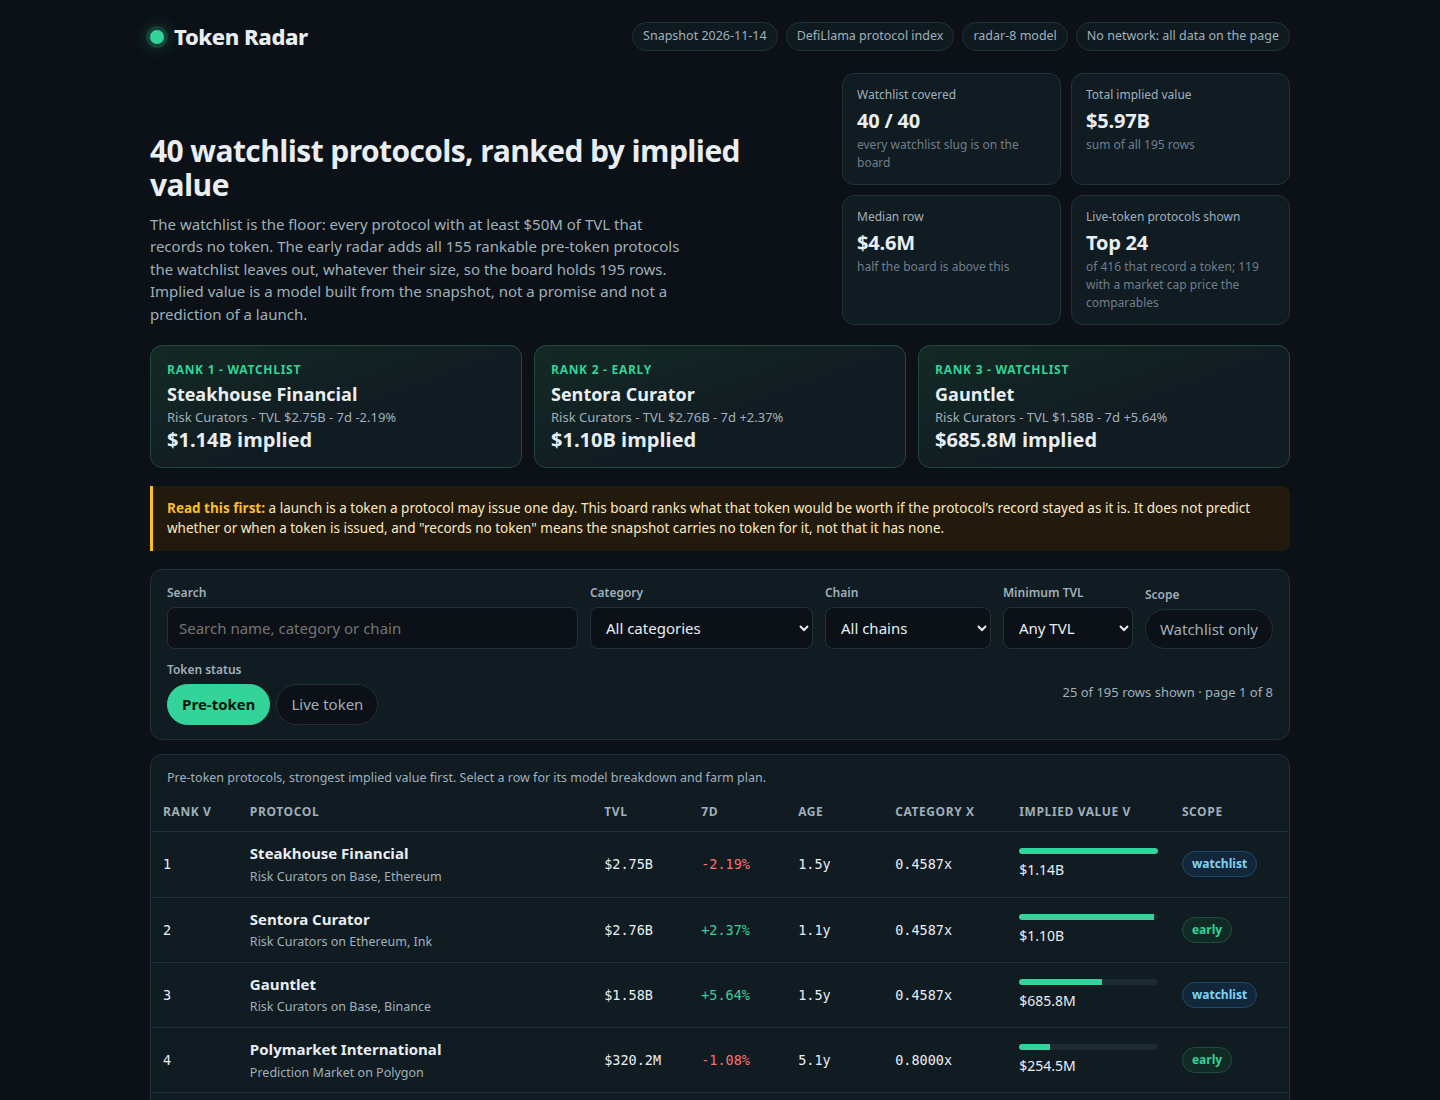
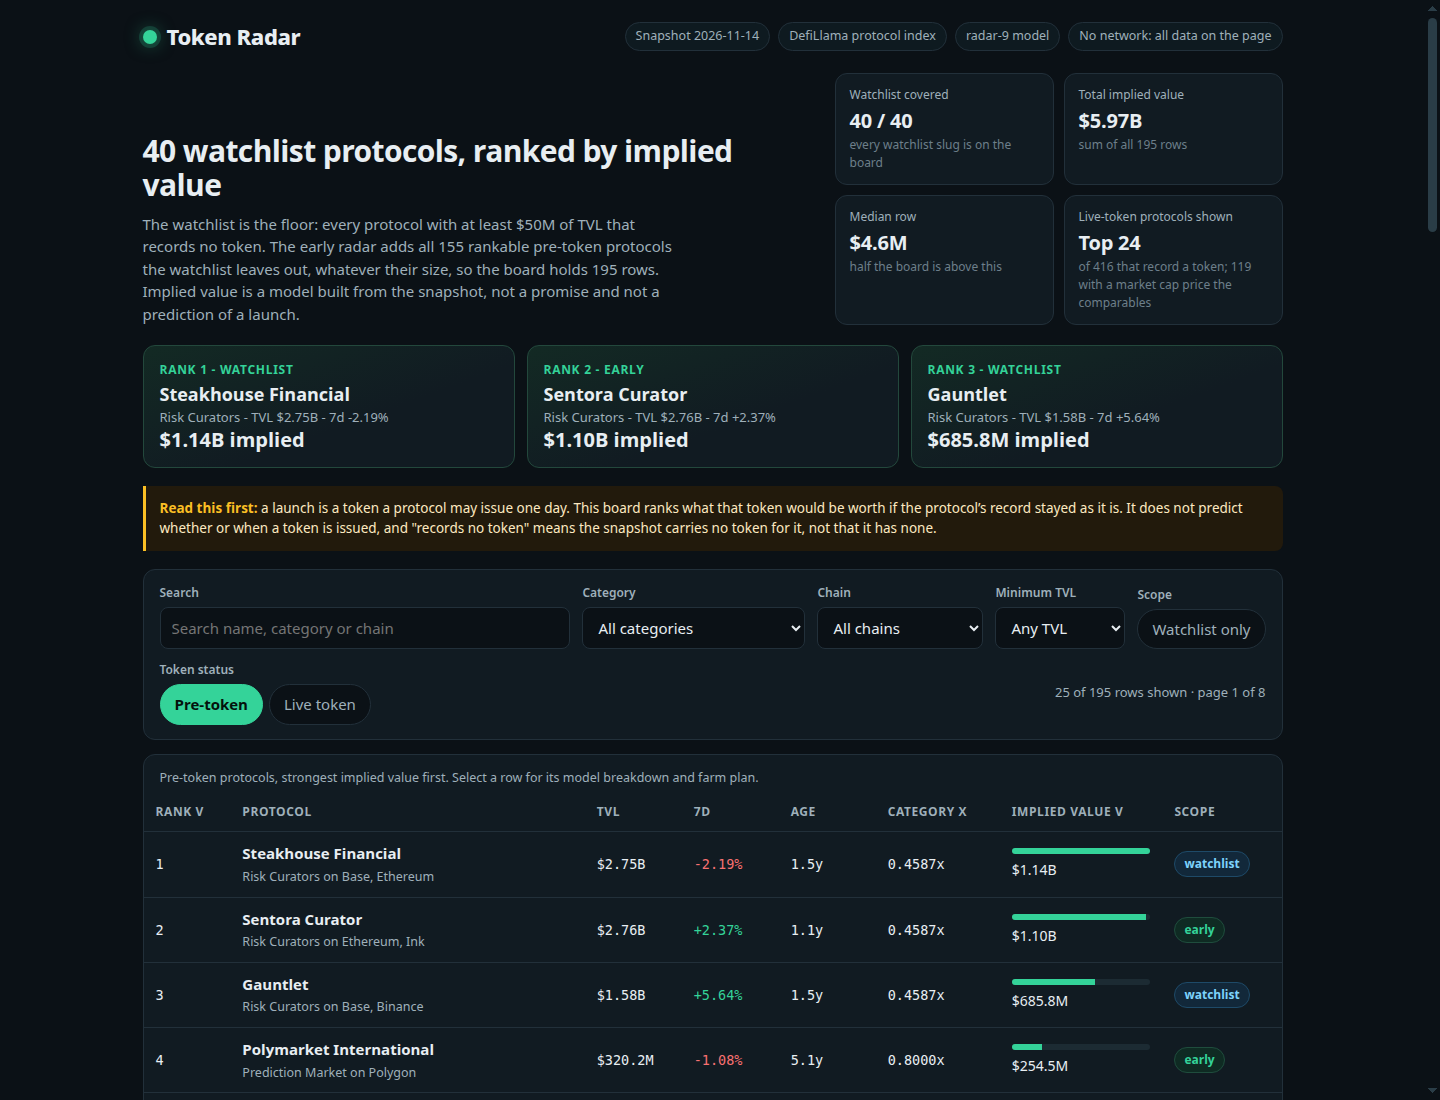
Token Radar radar-9: Saturn rank 27, growth/maturity bounds named in detail view
- Saturn's rank was stated as 29 in the README and two model comments;
  the board ranks it 27th. Corrected in all three places (the dashboard
  already names the rank from the board, never from a written number).
- Detail view now names the other two bounds the way radar-8 named the
  multiple's: a growth-clamped row (5/195) says so on its growth
  multiplier line and in its why-sentence, and an age-capped row (11/195)
  says so on its maturity multiplier line, so +4448.47% next to a 1.48x
  multiplier, or 5.1y next to a 1.00x maturity multiplier, is explained
  where it shows instead of only in the formula.
- Model, formula and every implied value unchanged (total $5.97B,
  median $4.56M, top 3 Steakhouse/Sentora/Gauntlet); screenshots retaken
  so the radar-9 label in them agrees with the code.

diff --git a/dashboard/app.js b/dashboard/app.js
@@ -1,4 +1,4 @@
-// Token Radar's dashboard (radar-8). It reads window.RADAR (written beside
+// Token Radar's dashboard (radar-9). It reads window.RADAR (written beside
 // dashboard/ by main.ts from the same board.json) and renders the ranked
 // board, the filters, a per-protocol detail view with the model's own
 // breakdown and the protocol's farm plan, and the live-token set kept apart.
@@ -53,8 +53,8 @@
     else if (row.tvl_usd >= 1e8) parts.push('a large TVL');
     else if (row.tvl_usd >= 5e7) parts.push('a TVL at or above the watchlist floor');
     else parts.push('a modest TVL below the watchlist floor');
-    if (row.change_7d !== null && row.change_7d !== undefined && row.change_7d >= 10) parts.push('fast seven-day growth');
-    else if (row.change_7d !== null && row.change_7d !== undefined && row.change_7d <= -10) parts.push('shrinking TVL over seven days');
+    if (row.change_7d !== null && row.change_7d !== undefined && row.change_7d >= 10) parts.push('fast seven-day growth' + (row.change_7d > DATA.model.growth_cap ? ', clamped at +' + DATA.model.growth_cap + '%' : ''));
+    else if (row.change_7d !== null && row.change_7d !== undefined && row.change_7d <= -10) parts.push('shrinking TVL over seven days' + (row.change_7d < DATA.model.growth_floor ? ', clamped at ' + DATA.model.growth_floor + '%' : ''));
     else if (row.change_7d === null || row.change_7d === undefined) parts.push('seven-day growth unreported, so it is valued as flat with a small discount');
     else parts.push('flat seven-day growth');
     if (row.age_days !== null && row.age_days !== undefined && row.age_days >= 730) parts.push('two-plus years running with no token');
@@ -477,8 +477,8 @@
         el('div', null, el('span', { text: 'Seven-day growth' }), el('b', { class: 'num', text: fmtPct(row.change_7d) })),
         el('div', null, el('span', { text: 'Age with no token' }), el('b', { class: 'num', text: row.age_days === null ? 'unknown (scored as 1y)' : fmtAge(row.age_days) })),
         el('div', { class: 'wide' }, el('span', { text: 'Category multiple' }), el('b', { class: 'num', text: row.category_multiple.toFixed(4) + 'x (' + (row.comparable_peers === 0 ? 'no live peer; market median' : row.comparable_peers === 1 ? '1 live peer; shrunk toward the ' + DATA.market_multiple.toFixed(4) + 'x market median' : row.comparable_peers < 3 ? row.comparable_peers + ' live peers; shrunk toward the ' + DATA.market_multiple.toFixed(4) + 'x market median' : row.comparable_peers + ' live peers') + ')' + (row.category_multiple >= DATA.model.multiple_cap ? ' — at the ' + DATA.model.multiple_cap.toFixed(2) + 'x cap' : row.category_multiple <= DATA.model.multiple_floor ? ' — at the ' + DATA.model.multiple_floor.toFixed(2) + 'x floor' : '') })),
-        el('div', null, el('span', { text: 'Growth multiplier' }), el('b', { class: 'num', text: String(row.growth_multiplier) })),
-        el('div', null, el('span', { text: 'Maturity multiplier' }), el('b', { class: 'num', text: String(row.maturity_multiplier) })),
+        el('div', null, el('span', { text: 'Growth multiplier' }), el('b', { class: 'num', text: String(row.growth_multiplier) + (row.change_7d !== null && row.change_7d !== undefined && row.change_7d > DATA.model.growth_cap ? ' — at the +' + DATA.model.growth_cap + '% cap' : row.change_7d !== null && row.change_7d !== undefined && row.change_7d < DATA.model.growth_floor ? ' — at the ' + DATA.model.growth_floor + '% floor' : '') })),
+        el('div', null, el('span', { text: 'Maturity multiplier' }), el('b', { class: 'num', text: String(row.maturity_multiplier) + (row.age_days !== null && row.age_days !== undefined && row.age_days > DATA.model.maturity_days ? ' — capped at ' + (DATA.model.maturity_days / 365) + 'y' : '') })),
         el('div', null, el('span', { text: 'Breadth multiplier' }), el('b', { class: 'num', text: String(row.breadth_multiplier) })),
         el('div', null, el('span', { text: 'Quality multiplier' }), el('b', { class: 'num', text: String(row.quality_multiplier) })),
         el('div', { class: 'big' }, el('span', { text: 'Implied value' }), el('b', { class: 'num', text: fmtUsd(row.implied_value_usd) }))

diff --git a/lib/model.ts b/lib/model.ts
@@ -1,4 +1,4 @@
-// Token Radar's model (radar-8): one sealed snapshot in, one ranked board out.
+// Token Radar's model (radar-9): one sealed snapshot in, one ranked board out.
 //
 // The board covers every slug in the snapshot's watchlist (the floor, never a
 // ceiling) plus every other rankable pre-token protocol the watchlist leaves
@@ -12,7 +12,7 @@
 // floor, not a rankability ceiling: a $2.8B protocol the list leaves out
 // (Sentora Curator) is no worse a subject than a $49M one it names. One
 // watchlist slug is ranked although the early radar would leave it out:
-// Saturn, a Stablecoin Wrapper at rank 29, because a watchlist slug is
+// Saturn, a Stablecoin Wrapper at rank 27, because a watchlist slug is
 // always ranked; the dashboard states that carve-out where it states the
 // rule. The 147 pre-token protocols the board does not rank are counted by
 // exclusion in the dashboard's data, so the reader can see what was set
@@ -120,7 +120,7 @@ export const MODEL: ModelConstants = {
 };
 
 /** The model's version label: the dashboard names it. */
-export const MODEL_VERSION = 'radar-8';
+export const MODEL_VERSION = 'radar-9';
 
 /** How many live-token protocols the Live token view carries, by market cap. */
 export const LIVE_ROWS = 24;
@@ -380,7 +380,7 @@ export function isRankable(p: SnapshotProtocol): boolean {
  * watchlist rule itself puts them (an exchange first, then a bridge, then a
  * staking wrapper, then a versioned pool, then a wrapped or staked name).
  * The watchlist is the floor, so this never describes a watchlist protocol:
- * one watchlist slug, Saturn (a Stablecoin Wrapper), is ranked at 29 even
+ * one watchlist slug, Saturn (a Stablecoin Wrapper), is ranked at 27 even
  * though the wrapper rule would leave it out, because a watchlist slug is
  * always ranked. The dashboard states that carve-out where it states the
  * rule, so the board and the rule it claims can never be caught disagreeing.

diff --git a/main.ts b/main.ts
@@ -1,4 +1,4 @@
-// Token Radar (radar-8): the entry program, Node 22, standard library only.
+// Token Radar (radar-9): the entry program, Node 22, standard library only.
 //
 // It reads the sealed snapshot from /input/snapshot.json (or --input
 // <file|dir>), scores every rankable pre-token protocol with the model in

diff --git a/README.md b/README.md
@@ -6,7 +6,21 @@ staked or bridged product of one that trades, ranks them by what their launch
 would be worth, and hands in a web dashboard with the board, a detail view
 for every protocol, filters, and a farm plan for each row.
 
-## The model (radar-8)
+## The model (radar-9)
+
+Radar-9 keeps radar-8's formula and every implied value, and fixes two
+things a reader could catch it on. First, Saturn's rank: the README and the
+model's own comments said rank 29, but the board ranks Saturn 27th, so the
+number is corrected in all three places; the dashboard already names the
+rank from the board, never from a written number. Second, the detail view
+now names the other two bounds the way radar-8 named the multiple's: a row
+whose seven-day growth the clamp binds on (5 of the 195, Shift DeFi at
++4448.47% among them) says so on its growth multiplier line and in its
+why-sentence, and a row older than the three-year maturity cap (11 of the
+195) says so on its maturity multiplier line, so a reader who sees
++4448.47% next to a 1.48x multiplier, or 5.1 years next to a 1.00x maturity
+multiplier, is told the bound did it instead of having to work it out from
+the formula.
 
 Radar-8 keeps radar-7's formula and every implied value, and fixes two
 things a reader could catch it on. First, the farm plans: steps 1 and 4
@@ -77,7 +91,7 @@ not rank are counted by exclusion on the dashboard (52 exchanges, 39 bridges,
 38 liquid staking / restaking products, 11 versioned pools, 6 wrapped / staked
 names, 1 stablecoin wrapper), so the reader can see what was set aside and
 why. One watchlist protocol is ranked although the early-radar wrapper rule
-would leave it out: Saturn, a Stablecoin Wrapper, sits at rank 29, because a
+would leave it out: Saturn, a Stablecoin Wrapper, sits at rank 27, because a
 watchlist slug is always ranked. The Live token view shows the 24 biggest
 live-token protocols by market cap, of 416 that record a token; the
 comparables are priced from the 119 of those with a market cap above zero,
